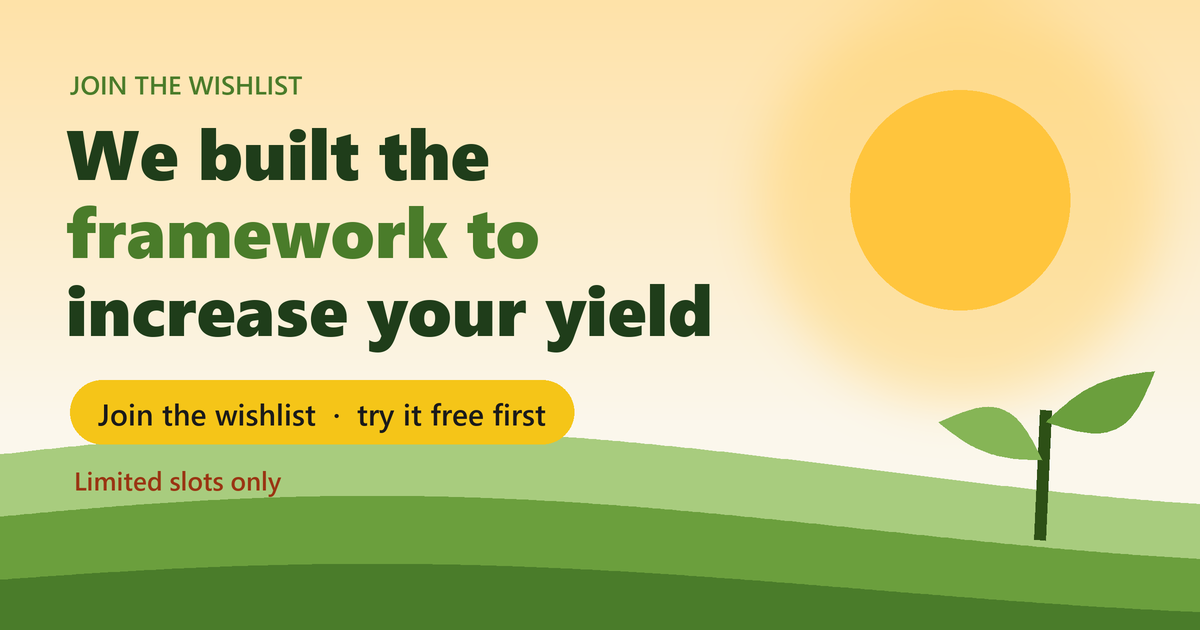
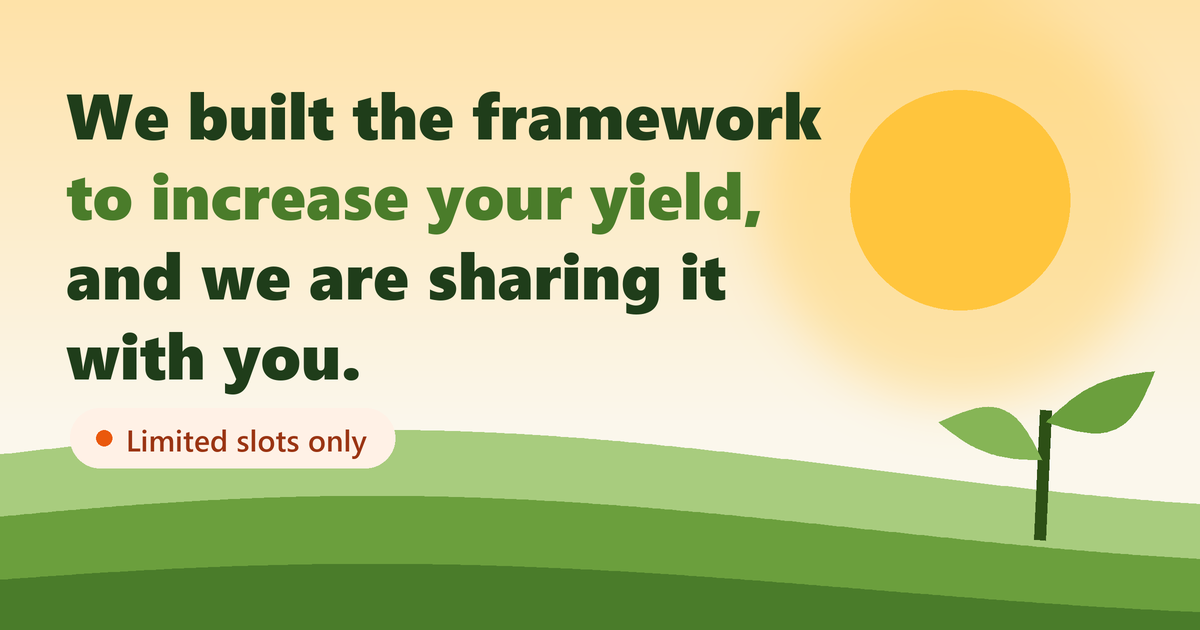
The wishlist says one thing above the first question: we built the framework to increase your yield, and we are sharing it with you. Limited slots only.

Changed region(s): [[0.0308, 0.1206, 0.6783, 0.7841]]

diff --git a/resources/views/wishlist/form.blade.php b/resources/views/wishlist/form.blade.php
@@ -14,11 +14,11 @@
     <meta name="viewport" content="width=device-width, initial-scale=1, viewport-fit=cover">
     <meta name="robots" content="noindex, nofollow">
     <meta name="csrf-token" content="{{ csrf_token() }}">
-    <title>We built the framework to increase your yield | Join the wishlist</title>
-    <meta name="description" content="Join the wishlist and be first to try it free. Limited slots only.">
+    <title>We built the framework to increase your yield</title>
+    <meta name="description" content="We built the framework to increase your yield, and we are sharing it with you. Limited slots only.">
     <meta property="og:type" content="website">
-    <meta property="og:title" content="We built the framework to increase your yield">
-    <meta property="og:description" content="Join the wishlist and be first to try it free. Limited slots only.">
+    <meta property="og:title" content="We built the framework to increase your yield, and we are sharing it with you.">
+    <meta property="og:description" content="Limited slots only.">
     <meta property="og:image" content="{{ url('/images/wishlist/share.png') }}">
     <meta property="og:image:width" content="1200">
     <meta property="og:image:height" content="630">
@@ -127,7 +127,7 @@
         @keyframes grow { from { transform: scaleY(0); } }
         .sway { animation: sway 5s ease-in-out infinite; transform-origin: 50% 100%; transform-box: fill-box; }
         @keyframes sway { 50% { transform: rotate(3deg); } }
-        h1 { font-size: 1.85rem; font-weight: 700; margin-top: .3rem; }
+        h1 { font-size: 1.85rem; font-weight: 700; margin-top: .6rem; }
         .first-q { margin-top: 1.7rem; }
         h1 em { font-style: normal; color: var(--leaf); }
         .lead { font-size: 1.05rem; line-height: 1.55; color: #36402e; margin: .7rem 0 0; }
@@ -211,7 +211,7 @@
     /* Everything said on the page. */
     const T = {
         en: {
-            kicker: 'Join the wishlist', title: 'We built the <em>framework</em> to increase your yield.',
+            title: 'We built the <em>framework</em> to increase your yield, and we are sharing it with you.',
             slots: 'Limited slots only', start: 'Join the wishlist', minutes: 'Just two minutes', resume: 'You left some answers.', resumeGo: 'Continue', restart: 'Start again',
             next: 'Next', skip: 'Skip', send: 'Send my wish', sending: 'Sending…', back: 'Back',
             name: 'First of all, what is your name?', first: 'First name', last: 'Last name', optional: 'if you like',
@@ -286,7 +286,6 @@
     /* Each screen, drawn from the answers so far. */
     const SCREENS = {
         name: () => `
-            <p class="kicker">${t('kicker')}</p>
             <h1>${t('title')}</h1>
             <span class="slots"><i aria-hidden="true"></i>${t('slots')}</span>
             <h2 class="first-q">${t('name')}</h2>
